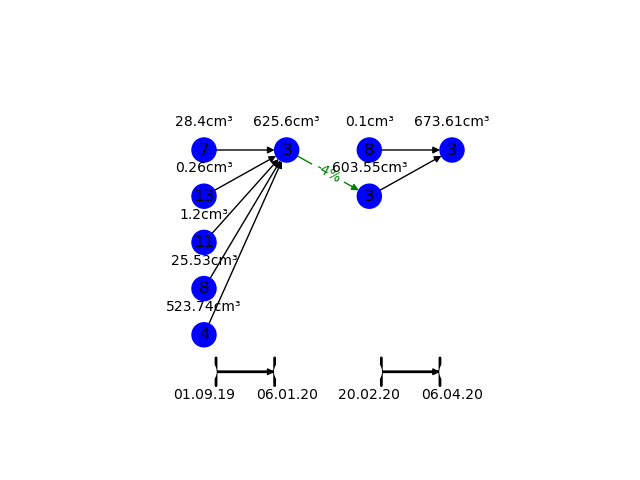
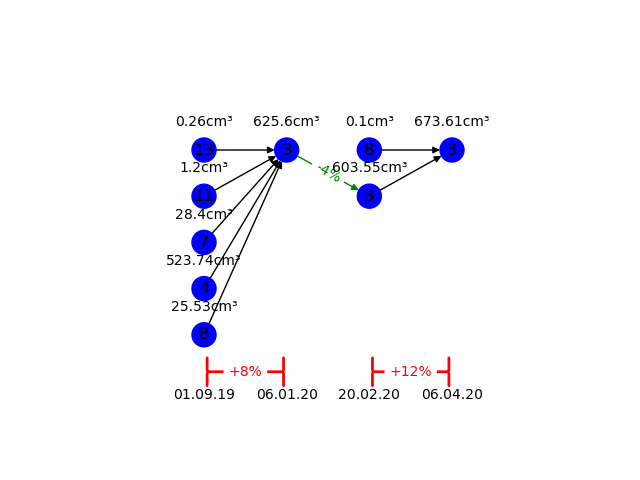
updated graphs edges labels for the split/merge cases

diff --git a/generate_info/gen_single_lesion/drawer_single_lesion_graph.py b/generate_info/gen_single_lesion/drawer_single_lesion_graph.py
@@ -263,27 +263,7 @@ class DrawerLabelsAndLabeledEdges(Drawer):
 
         return max_nodes
     
-    def color_edges(self, pos):
-        vol_edge_label_pos = dict()
-        edge_is_skip = nx.get_edge_attributes(self._base_graph, name=EdgeAttr.IS_SKIP)
-
-        # for edge, is_skip in edge_is_skip.items():
-        #     if is_skip:
-        #         v = pos[edge[0]]
-        #         vol_edge_label_pos[edge[0]] = (v[0], v[1]+0.3)
-        #     else:
-        #         vol_edge_label_pos[edge[0]] = pos[edge[0]]
-
-        #     k1, v1 = pos[edge[0]]
-        #     if is_skip:
-        #         vol_edge_label_pos[edge[0]] = [k1, v1+1]
-        #     else:
-        #         vol_edge_label_pos[edge[0]] = pos[edge[0]]
-
-        # # print(vol_edge_label_pos)
-        # for k, v in pos.items():
-        #     print(k)
-        #     print((v[0], v[1]+0.3))
+    def color_edges_labels(self, pos):
         import copy
         pos_of_skip_edges = copy.deepcopy(pos)
         for node in pos:
@@ -309,12 +289,14 @@ class DrawerLabelsAndLabeledEdges(Drawer):
 
     
     def draw_volume_related_attributes_on_graph(self, pos):
-        self.color_edges(pos)
+        self.color_edges_labels(pos)
         self.draw_nodes_volume_labels(pos)
 
     def add_split_and_merge_summing_arrows(self, nodes_position):
         add_to_pos = dict()
         add_to_edges = list()
+        add_to_colors = dict()
+        add_to_labels = dict()
 
         nodes_pos_x = [pos[0] for pos in nodes_position.values()]
         layer_pos_x = np.unique(nodes_pos_x)
@@ -360,19 +342,16 @@ class DrawerLabelsAndLabeledEdges(Drawer):
             edge = (node1, node2)
             percentage_diff_dict, color_dict = edit_volume_percentage_data_to_str_and_color({edge: vol})
             add_to_edges.append(edge)
-            nx.set_edge_attributes(self._base_graph, percentage_diff_dict, name='label')
-            nx.set_edge_attributes(self._base_graph, color_dict, name=EdgeAttr.COLOR)
-            nx.set_edge_attributes(self._base_graph, {edge: False}, name=EdgeAttr.IS_SKIP)
+            add_to_colors.update(color_dict)
+            add_to_labels.update(percentage_diff_dict)
+            # total_label_dict = nx.get_edge_attributes(self._base_graph, EdgeAttr.LABEL)
+            # nx.set_edge_attributes(self._base_graph, percentage_diff_dict, name='label')
+            # total_color_dict = nx.get_edge_attributes(self._base_graph, EdgeAttr.COLOR)
+            # total_color_dict.update(color_dict)
+            # nx.set_edge_attributes(self._base_graph, total_color_dict, name=EdgeAttr.COLOR)
+            # nx.set_edge_attributes(self._base_graph, {edge: False}, name=EdgeAttr.IS_SKIP)
 
-        # for (t1, t2) in self.summing_edges_to_add_dict:
-        #     arrow_pos1 = arrow_positions[t1]
-        #     arrow_pos2 = arrow_positions[t2]
-        #     fictive_nodes_pos = {str(t1): arrow_pos1, str(t2): arrow_pos2}
-        #     # nx.draw_networkx_nodes(self._base_graph, fictive_nodes_pos)
-        #     nx.draw_networkx_edges(self._base_graph, fictive_nodes_pos, connectionstyle="arc3,rad=0.3",
-        #                            arrowstyle='|-|', width=2.0)
-
-        return add_to_edges, add_to_pos
+        return add_to_edges, add_to_pos, add_to_colors, add_to_labels
 
     def draw(self, pos):
         """This function prints the title of the figure and the graph"""
@@ -380,14 +359,26 @@ class DrawerLabelsAndLabeledEdges(Drawer):
         plt.ylim([-2, 2])
         # plt.title(self._patient_name, fontsize=12)
 
-        split_and_merge_summing_arrows, add_to_pos = self.add_split_and_merge_summing_arrows(pos)
+        split_and_merge_summing_arrows, add_to_pos, add_to_colors, add_to_labels = self.add_split_and_merge_summing_arrows(pos)
 
         # add add_to_pos to pos
         pos = {**pos, **add_to_pos}
 
+        # set the nodes size to default (300) and only the white nodes (for the split&merge arrows)
+        # are small (so to not intifear the arrows)
+        colors = nx.get_node_attributes(self._base_graph, NodeAttr.COLOR)
+        size_list = []
+        for node, color in colors.items():
+            if color == Colors.WHITE:
+                size_list.append(5)
+            else:
+                size_list.append(300)
+
         nx.draw_networkx_nodes(G=self._base_graph,
                                pos=pos,
-                               node_color=list(nx.get_node_attributes(self._base_graph, NodeAttr.COLOR).values()))
+                               node_color=list(nx.get_node_attributes(self._base_graph, NodeAttr.COLOR).values()),
+                               node_size=size_list)
+
         nx.draw_networkx_labels(G=self._base_graph,
                                 pos=pos,
                                 labels=self.set_nodes_labels())
@@ -407,20 +398,16 @@ class DrawerLabelsAndLabeledEdges(Drawer):
                                            nx.get_edge_attributes(self._base_graph, EdgeAttr.COLOR).items() if
                                            is_skip_edge[e]],
                                connectionstyle='arc3, rad=-0.5')
-        # add the summing edges in the split and merge cases
-        nx.draw_networkx_edges(G=self._base_graph,
-                               pos=pos,
-                               edgelist=split_and_merge_summing_arrows,
-                               edge_color=[c for e, c in
-                                           nx.get_edge_attributes(self._base_graph, EdgeAttr.COLOR).items()],
-                               connectionstyle='arc3')
 
-        # nx.draw_networkx_edge_labels(G=self._base_graph, pos=add_to_pos, edge_labels=percentage_diff_dict,
-        #                              font_color='red')
-        nx.draw_networkx_edges(self._base_graph, pos, connectionstyle="arc3", edgelist=split_and_merge_summing_arrows,
-                               arrowstyle='|-|', width=2.0)
-        # for edge in split_and_merge_summing_arrows:
-        #     nx.draw_networkx_edge_labels(G=self._base_graph, pos=pos, edge_labels={edge: label}, font_color=color)
+
+        # add the summing edges in the split and merge cases
+        for edge, label in add_to_labels.items():
+            if edge in add_to_colors:
+                color = add_to_colors[edge]
+                nx.draw_networkx_edge_labels(G=self._base_graph, pos=pos, edge_labels={edge: label}, font_color=color)
+        nx.draw_networkx_edges(self._base_graph, pos, edgelist=split_and_merge_summing_arrows,
+                               arrowstyle='|-|', width=2.0, edge_color=[c for e, c in
+                                           add_to_colors.items()], node_size=20)  # actual white node size is 5, set edge as if it is 20
 
         self.draw_volume_related_attributes_on_graph(pos)  # volume
         nx.spring_layout(self._base_graph, scale=6.0)
